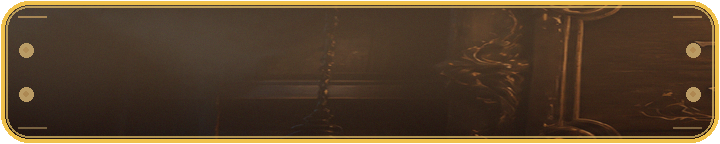
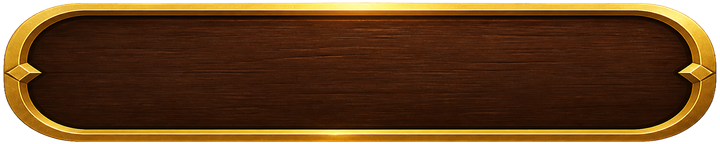
feat(art): 用真源图规范 CTA / 输入皮
三张胶囊 UI 源图去浅底后落到 art_btn_primary(_on) 720×144、art_input_field 720×96，外区透明。

diff --git a/scripts/gen_lobby_v2_art.py b/scripts/gen_lobby_v2_art.py
@@ -270,6 +270,19 @@ def fit_bust_announce(im: Image.Image, tw: int = 324, th: int = 432) -> Image.Im
     return _clear_corners(fitted)
 
 
+def fit_chrome(src: Image.Image, tw: int, th: int, pad: int = 6) -> Image.Image:
+    """Key studio gray, crop the capsule, stretch to the locked slot. Corners stay clear."""
+    keyed = key_light_background(src)
+    x0, y0, x1, y1 = _opaque_bbox(keyed)
+    x0 = max(0, x0 - pad)
+    y0 = max(0, y0 - pad)
+    x1 = min(keyed.size[0] - 1, x1 + pad)
+    y1 = min(keyed.size[1] - 1, y1 + pad)
+    crop = keyed.crop((x0, y0, x1 + 1, y1 + 1))
+    fitted = crop.resize((tw, th), Image.Resampling.LANCZOS)
+    return _clear_corners(fitted, pad=4)
+
+
 def sample_patch(im: Image.Image, box: tuple[int, int, int, int], size: tuple[int, int]) -> Image.Image:
     return im.crop(box).resize(size, Image.Resampling.LANCZOS)
 
@@ -390,20 +403,9 @@ def main() -> None:
     save_png(idle, MEDIA / "art_dealer_bust_idle.png")
     save_png(announce, MEDIA / "art_dealer_bust_announce.png")
 
-    wood_btn = sample_patch(splash_src, (120, 180, 620, 420), (720, 144))
-    wood_in = sample_patch(lobby_src, (180, 620, 900, 900), (720, 96))
-    save_png(
-        wood_chrome(720, 144, wood_btn, PANEL, ACCENT, pressed=False, radius=28, seed=4),
-        MEDIA / "art_btn_primary.png",
-    )
-    save_png(
-        wood_chrome(720, 144, wood_btn, mix(PANEL, ACCENT, 0.35), mix(CANDLE, PAPER, 0.2), pressed=True, radius=28, seed=8),
-        MEDIA / "art_btn_primary_on.png",
-    )
-    save_png(
-        wood_chrome(720, 96, wood_in, mix(BG, FELT, 0.4), BRASS, inset=True, radius=20, seed=13),
-        MEDIA / "art_input_field.png",
-    )
+    save_png(fit_chrome(open_src("src_btn_primary.png"), 720, 144), MEDIA / "art_btn_primary.png")
+    save_png(fit_chrome(open_src("src_btn_primary_on.png"), 720, 144), MEDIA / "art_btn_primary_on.png")
+    save_png(fit_chrome(open_src("src_input_field.png"), 720, 96), MEDIA / "art_input_field.png")
 
     jobs = [
         ("art_splash_still.png", (1080, 2340), False),

diff --git a/docs/04-设计/大厅v2-交件说明.md b/docs/04-设计/大厅v2-交件说明.md
@@ -2,7 +2,7 @@
 
 | 项 | 内容 |
 |----|------|
-| 文档版本 | v1.0 |
+| 文档版本 | v1.1 |
 | 状态 | **本 PR = 交件** · 不改玩法规则 · **尽量不改 ets** |
 | 读者 | @UI（时间轴挂点）、程序、负责人 |
 | 色板（已锁） | `tavern_bg` `#1A120E` · `tavern_candle` `#E8B86D` · `tavern_shadow` `#0E1A22` · `tavern_panel` `#3D241C` · `tavern_brass` `#C4A46A` · `tavern_accent` `#F0C14B` |
@@ -64,7 +64,7 @@
 
 ## 3. 制作口径
 
-- **真图质感**：源图 cover 裁到竖屏 1080×2340（招牌 / 桌心加权）；荷官边缘洪水去浅底 + 真 alpha；CTA / 输入从源图取样木纹再叠铜线烛光。
+- **真图质感**：场景源图 cover 裁到竖屏 1080×2340（招牌 / 桌心加权）；荷官 / CTA / 输入边缘去浅底 + 真 alpha。按钮与输入皮用独立胶囊源图规范到 720×144 / 720×96，外区透明。
 - **禁止**把 v0.x Pillow 平涂换个文件名当交件。
 - **禁止** `lb_art_*`。
 - 脚手架 `scripts/gen_scaffold_assets.py` **跳过** 本表全部交件文件，避免再被色块盖掉。
@@ -85,6 +85,7 @@
 | 日期 | 意见 | 提议修改 | 提出人 | 状态 |
 |------|------|----------|--------|------|
 | 2026-09-07 | v0.x Pillow / 褐金平涂只能标占位；须真分层 + 独立静帧 | 本批 v1.0：源图入库、Pillow 规范尺寸、文档标明占位≠交件 | 负责人 / 用户 | **本 PR 交件** |
+| 2026-09-07 | 补 CTA / 输入真源图 | `src_btn_primary*` / `src_input_field` 去底规范到锁尺寸 | 用户 | 已改 |
 
 ---
 

diff --git a/scripts/art_src/README.md b/scripts/art_src/README.md
@@ -10,7 +10,8 @@
 | `src_lobby.png` | 桌场景景深 → `art_lobby_bg.png`、`art_table_bg.png` |
 | `src_dealer_idle.png` | 荷官 idle → `art_dealer_bust_idle.png` |
 | `src_dealer_announce.png` | 荷官 announce（举牌）→ `art_dealer_bust_announce.png` |
-
-按钮 / 输入皮从上述源图取样木纹，再叠铜线与烛光。
+| `src_btn_primary.png` | 木纹铜框 CTA 常态 → `art_btn_primary.png` |
+| `src_btn_primary_on.png` | accent 金面按下态 → `art_btn_primary_on.png` |
+| `src_input_field.png` | 木框内凹输入槽 → `art_input_field.png` |
 
 **旧脚本** `gen_lobby_p0_art.py` / `gen_scaffold_assets.py` 产出的 Pillow 色块 = **占位**，不是本批交件。
